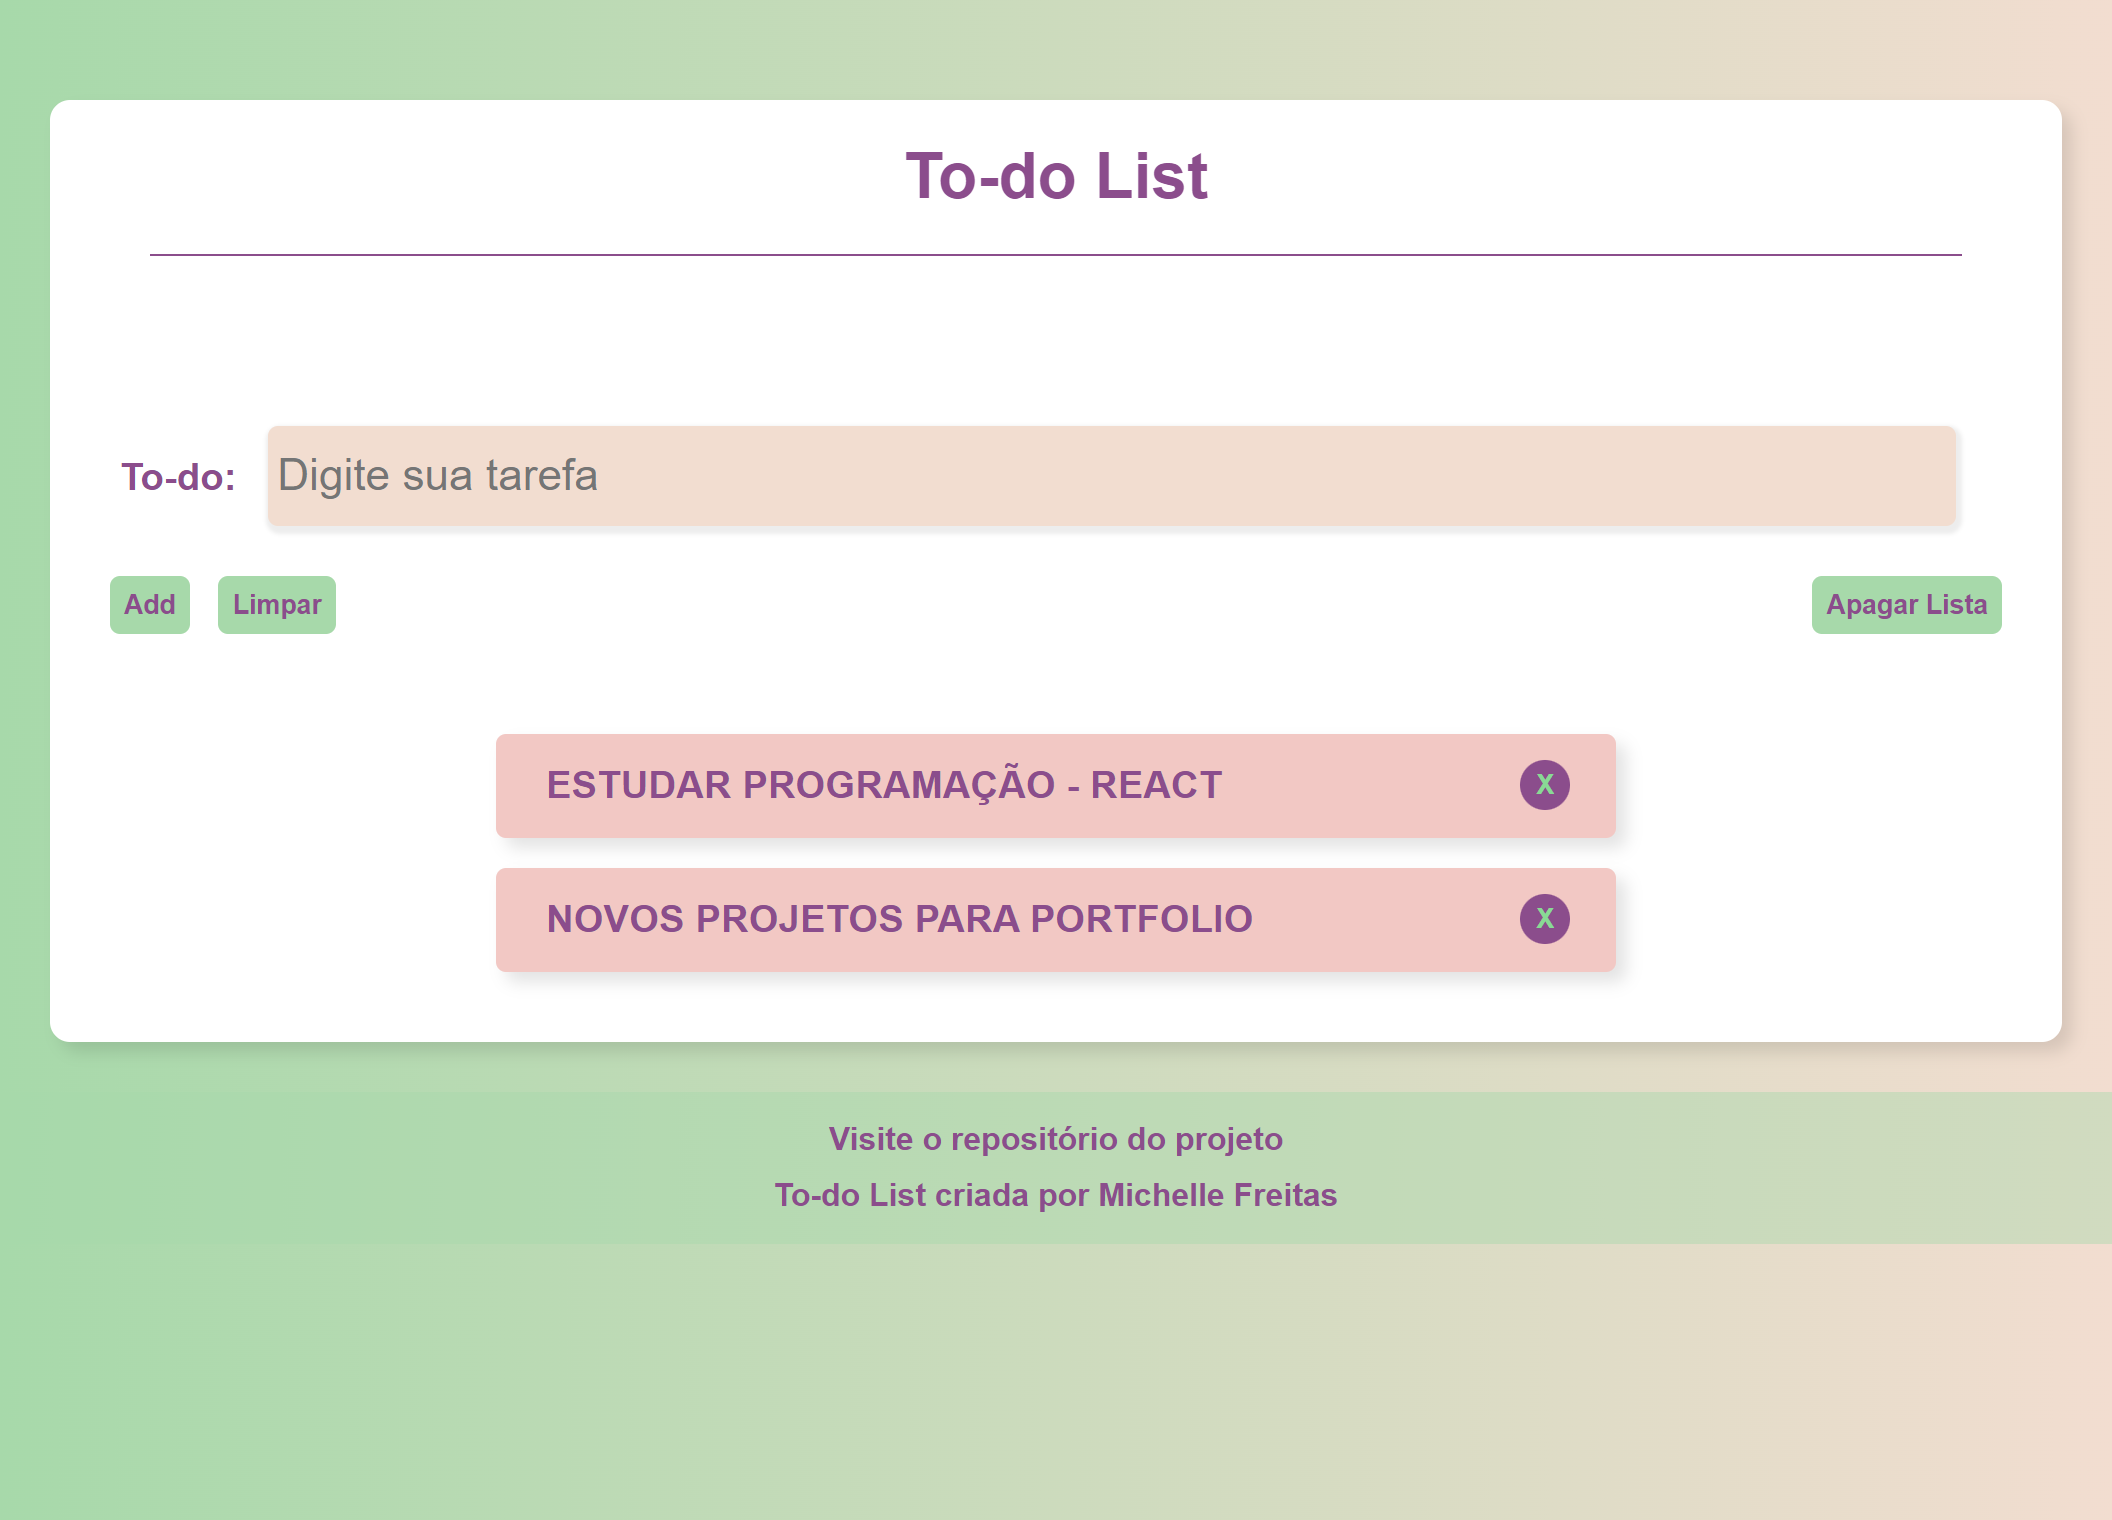
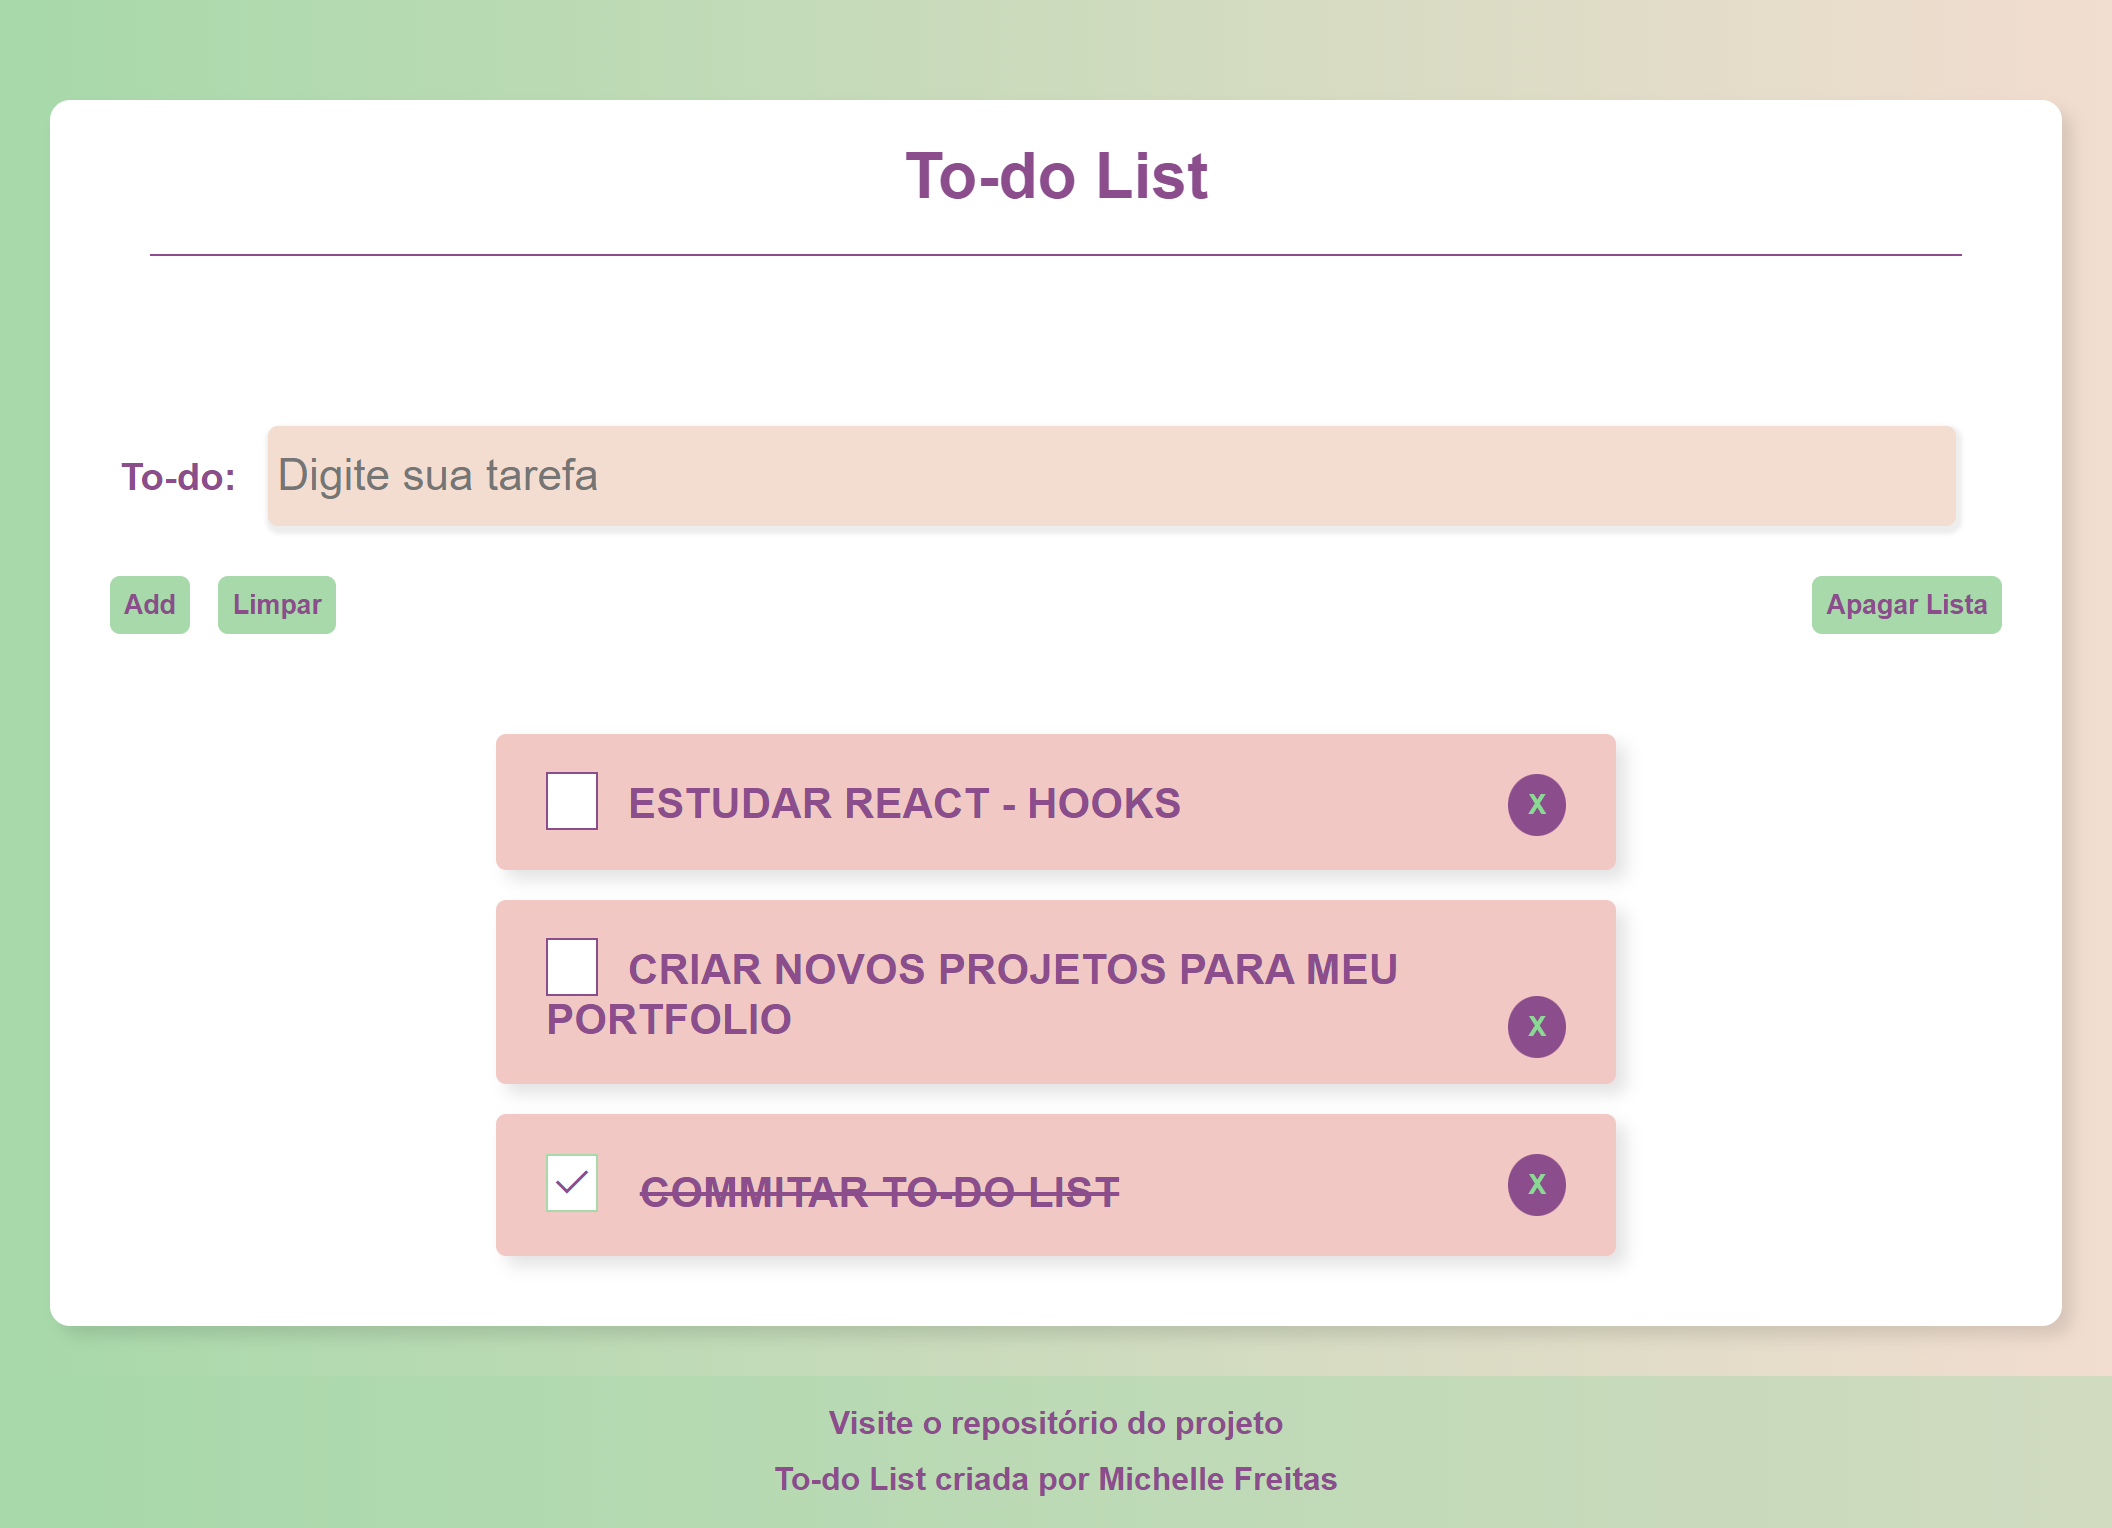
update to-do list checked

diff --git a/meus_projetos/todolist/javascript/index.js b/meus_projetos/todolist/javascript/index.js
@@ -1,100 +1,126 @@
 /** Variaveis */
-const inputList = document.querySelector('#item')
-const inicialText = document.querySelector('#inicial-text')
-const form = document.querySelector('form')
-const body = document.querySelector('body')
+const inputList = document.querySelector("#item");
+const inicialText = document.querySelector("#inicial-text");
+const form = document.querySelector("form");
+const body = document.querySelector("body");
+const boxCheck = document.querySelector(".box-check");
 
+let list = document.querySelector("#list");
+let itemList = document.querySelector(".item-list");
 
-let list = document.querySelector('#list')
-let itemList = document.querySelector('.item-list')
-
-let allItens = []
-
+let allItens = [];
 
 /** Funções */
-function loadApp(){
-    let myLocalStorage = getLocalStorage()
+function loadApp() {
+  let myLocalStorage = getLocalStorage();
 
-    if (myLocalStorage == null){
-        setInitialText(true)
-    } else {
-        allItens = myLocalStorage
-        showList()
-    }
+  if (myLocalStorage == null) {
+    setInitialText(true);
+  } else {
+    allItens = myLocalStorage;
+    showList();
+  }
 }
 
-function getLocalStorage(){
-    let storageList = JSON.parse(localStorage.getItem('allItens'))
-    return storageList
+function getLocalStorage() {
+  let storageList = JSON.parse(localStorage.getItem("allItens"));
+  return storageList;
 }
 
-function updateLocalStorage(){
-    let updatedStorageList = localStorage.setItem('allItens', JSON.stringify(allItens))
-    return updatedStorageList
+function updateLocalStorage() {
+  let updatedStorageList = localStorage.setItem(
+    "allItens",
+    JSON.stringify(allItens)
+  );
+  return updatedStorageList;
 }
 
-function addItem(){
-    const itemLength = inputList.value.length
-    const exists = allItens.some((item) => item === inputList.value.toUpperCase())
+function addItem() {
+  const atualItem = {
+    task: inputList.value.toUpperCase(),
+    checked: false,
+  };
 
-    if (exists) {
-        alert(`${inputList.value.toUpperCase()} já existe na lista!`)
-    } else if(itemLength > 0){
-        setInitialText(false)
-        allItens.push(inputList.value.toUpperCase())
-        updateLocalStorage()
-        showList()
-    }
-    inputList.focus()
-    inputList.value = ''
+  const exists = allItens.some((item) => item.task === atualItem.task);
+
+  if (exists) {
+    alert(`${atualItem.task} já existe na lista!`);
+  } else if (atualItem.task.length > 0) {
+    setInitialText(false);
+    allItens.push(atualItem);
+    console.log(atualItem);
+    updateLocalStorage();
+    showList();
+  }
+  inputList.focus();
+  inputList.value = "";
 }
 
-function setInitialText(initialText){
-    if(initialText){
-        inicialText.innerHTML = 'Sua lista aparecerá aqui'
-    } else {
-        inicialText.innerHTML = ''
-    }
+function setInitialText(initialText) {
+  if (initialText) {
+    inicialText.innerHTML = "Sua lista aparecerá aqui";
+  } else {
+    inicialText.innerHTML = "";
+  }
 }
 
+function showList() {
+  list.innerHTML = "";
 
-function showList(){
-    list.innerHTML = ''
-
-    for(let i = 0; i < allItens.length; i++){
-        list.innerHTML += `
-        <span class="item-list">
-            ${allItens[i]}
+  for (let i = 0; i < allItens.length; i++) {
+    list.innerHTML += `
+        <li class="item-list" onClick="setCheckBox(${i})">
+            <span class="box-check" ${
+              allItens[i].checked === true
+                ? 'data-checked="checked"'
+                : 'data-checked="not-checked"'
+            }>
+                ${
+                  allItens[i].checked === true
+                    ? '<span class="material-symbols-outlined" > done </span>'
+                    : '<span class="box"></span>'
+                }
+            </span>
+            <span class="${allItens[i].checked === true ? "done" : ""}">${
+      allItens[i].task
+    }</span>
             <button onclick="removeItem(${i})" class="remove-btn">X</button>
-        </span>  `
-    }
+        </li>  `;
+  }
 }
 
-
-function removeItem(index){
-    allItens.splice(index, 1)
-    updateLocalStorage()
-    if (allItens.length > 0){
-        showList()
-    } else {
-        clearAll()
-    }
+function setCheckBox(index) {
+  if (allItens[index].checked === true) {
+    allItens[index].checked = false;
+  } else {
+    allItens[index].checked = true;
+  }
+  updateLocalStorage();
+  showList();
 }
 
-
-function clearAll(){
-    localStorage.clear()
-    allItens = []
-    setInitialText(true)
-    inputList.value = ''
-    showList()
+function removeItem(index) {
+  allItens.splice(index, 1);
+  updateLocalStorage();
+  if (allItens.length > 0) {
+    showList();
+  } else {
+    clearAll();
+  }
 }
 
+function clearAll() {
+  localStorage.clear();
+  allItens = [];
+  setInitialText(true);
+  inputList.value = "";
+  showList();
+}
 
 /**EventListener */
-body.addEventListener('load', loadApp)
+body.addEventListener("load", loadApp);
 
-form.addEventListener('submit', (e) => {
-    e.preventDefault()
-    addItem()
-})
+form.addEventListener("submit", (e) => {
+  e.preventDefault();
+  addItem();
+});

diff --git a/meus_projetos/todolist/styles/style.css b/meus_projetos/todolist/styles/style.css
@@ -119,23 +119,57 @@ label {
     display: block;
     color: var(--principal-color);
     font-weight: bold;
+    font-size: 1.1em;
     background-color: var(--rosa);
 
-    padding: 15px 25px;
+    padding: 20px 25px;
     margin-bottom: 15px;
 
     word-wrap:  break-word;
 
     border-radius: 5px;
     box-shadow: 5px 5px 8px rgba(0, 0, 0, 0.11);
+
+    cursor: pointer;
+}
+.done {
+    text-decoration: line-through;
+}
+
+/* CHECK BOX*/
+.box {
+    border: 1px solid var(--principal-color);
+    background-color: white;
+    margin-right: 15px;
+    padding: 0px 12px;
+    color:var(--principal-color);
+    font-size: 24px;
+}
+
+.material-symbols-outlined {
+    border: 1px solid var(--bg-one);
+    background-color: white;
+    margin-right: 15px;
+    padding: 1.3px 0px;
+    color:var(--principal-color);
+    font-size: 24px;
+
+}
+
+.box:hover {
+    border: 1px solid var(--principal-color);
+    background-color: var(--principal-color);
+    opacity: .5;
+
+
 }
 
 /*BOTÕES LISTA*/
 .remove-btn {
     background-color: var(--principal-color);
     float: right;
-    padding: 5px 8px;
-    margin: -2px;
+    padding: 8px 10px;
+    /* margin: -2px; */
 
     border-radius: 80%;
     border: none;

diff --git a/meus_projetos/todolist/index.html b/meus_projetos/todolist/index.html
@@ -6,6 +6,7 @@
     <meta name="viewport" content="width=device-width, initial-scale=1.0">
     <link rel="stylesheet" href="styles/style.css">
     <link rel="stylesheet" href="styles/mediaquery.css">
+    <link rel="stylesheet" href="https://fonts.googleapis.com/css2?family=Material+Symbols+Outlined:opsz,wght,FILL,GRAD@48,400,0,0" />
     <title>To-do List</title>
 </head>
 <body onload="loadApp()">
@@ -24,8 +25,8 @@
             </form>
             <div id="list-container">
                 <p id="inicial-text"></p>
-                <div id="list">
-                </div>
+                <ul id="list">
+                </ul>
             </div>
         </main>
     </div>
